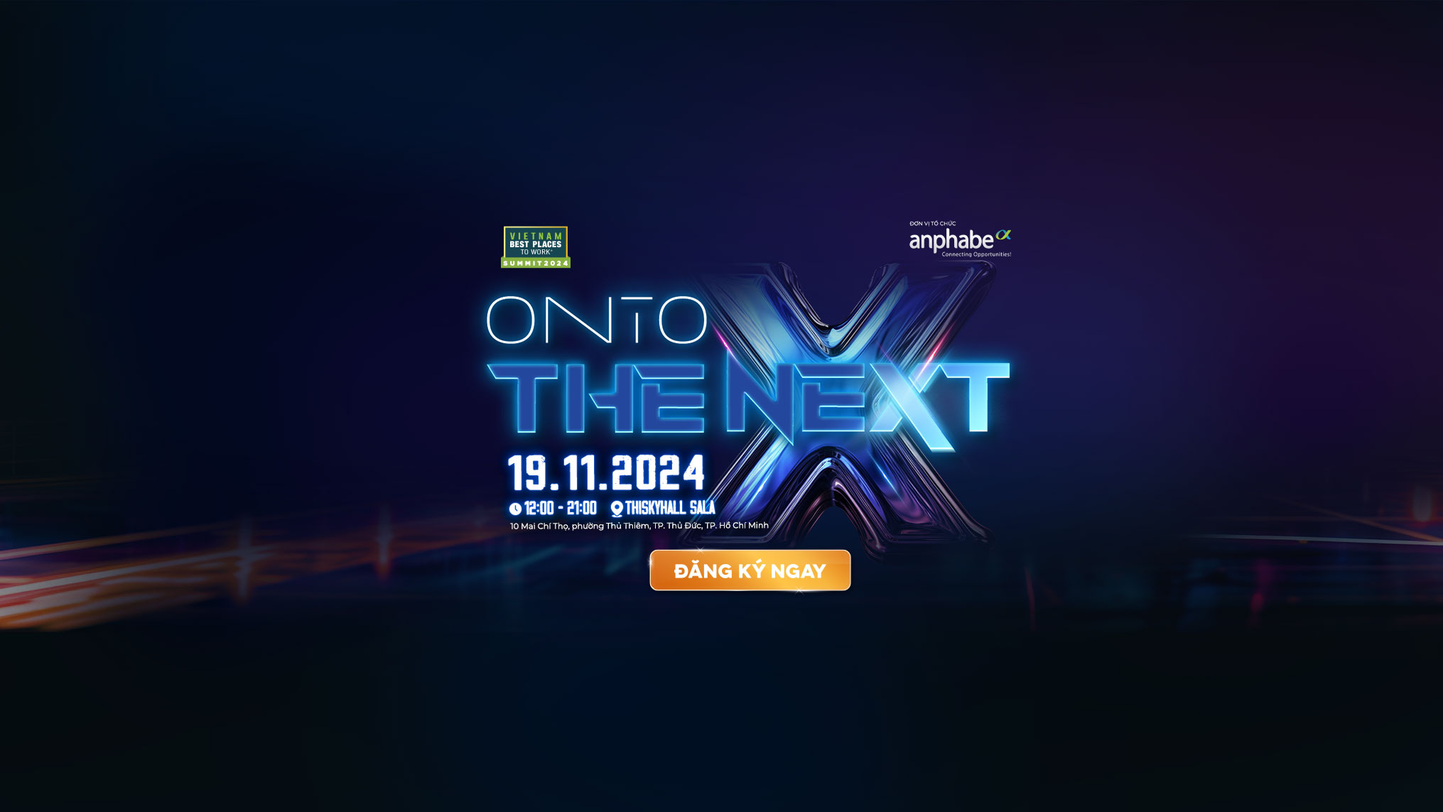
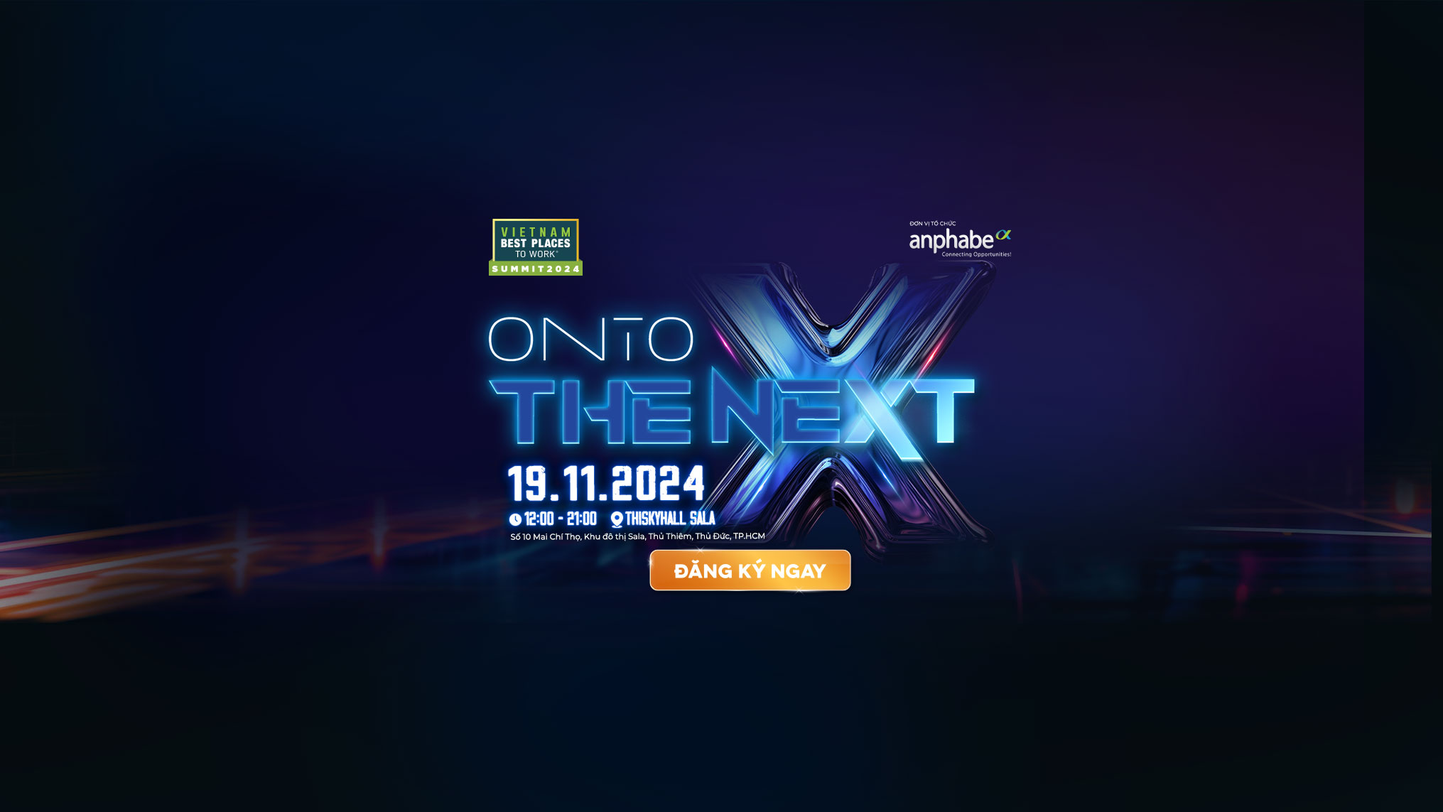
update

diff --git a/vietnambestplacestowork/2024/index.html b/vietnambestplacestowork/2024/index.html
@@ -23,7 +23,7 @@
   <noscript><link rel="stylesheet" href="https://fonts.googleapis.com/css?family=Raleway:100,200,300,400,500,600,700,800,900,100i,200i,300i,400i,500i,600i,700i,800i,900i&display=swap"></noscript>
   <link rel="preload" href="https://fonts.googleapis.com/css?family=Questrial:400&display=swap" as="style" onload="this.onload=null;this.rel='stylesheet'">
   <noscript><link rel="stylesheet" href="https://fonts.googleapis.com/css?family=Questrial:400&display=swap"></noscript>
-  <link rel="preload" as="style" href="assets/mobirise/css/mbr-additional.css?v=aeezVQ"><link rel="stylesheet" href="assets/mobirise/css/mbr-additional.css?v=aeezVQ" type="text/css">
+  <link rel="preload" as="style" href="assets/mobirise/css/mbr-additional.css?v=WetVsa"><link rel="stylesheet" href="assets/mobirise/css/mbr-additional.css?v=WetVsa" type="text/css">
 
   
   <script>(function(w,d,s,l,i){w[l]=w[l]||[];w[l].push({'gtm.start':
@@ -132,8 +132,7 @@ height="0" width="0" style="display:none;visibility:hidden"></iframe></noscript>
                                 <h6 class="card-title mbr-fonts-style mb-1 display-7">Hội nghị &amp; Vinh danh</h6>
                                 <p class="mbr-text mbr-fonts-style mt-2 display-7">
                                     <span class="highlight"><strong>19.11.2024</strong></span><br>
-                                    <span class="highlight"><strong>Thiskyhall Sala</strong></span><br>
-                                   10 Mai Chí Thọ, phường Thủ Thiêm, TP. Thủ Đức, TPHCM
+                                    <span class="highlight"><strong>Thiskyhall Sala</strong></span><br>Số 10 Mai Chí Thọ, Khu đô thị Sala, Thủ Thiêm, Thủ Đức, TP.HCM
                                 </p>
                             </div>
                         </div>
@@ -718,8 +717,8 @@ height="0" width="0" style="display:none;visibility:hidden"></iframe></noscript>
     <div class="container">        
         <div class="row mbr-gallery">
             <div class="col-12 col-md-3 col-lg-4 item gallery-image active">
-                <div class="item-wrapper" data-toggle="modal" data-bs-toggle="modal" data-target="#uqBBmwIISm-modal" data-bs-target="#uqBBmwIISm-modal">
-                    <img class="w-100 image-speaker" src="assets/images/tn-s-1.png" alt="Bà Thanh Nguyễn" data-slide-to="0" data-bs-slide-to="0" data-target="#lb-uqBBmwIISm" data-bs-target="#lb-uqBBmwIISm">
+                <div class="item-wrapper" data-toggle="modal" data-bs-toggle="modal" data-target="#uqHhxXhsOR-modal" data-bs-target="#uqHhxXhsOR-modal">
+                    <img class="w-100 image-speaker" src="assets/images/tn-s-1.png" alt="Bà Thanh Nguyễn" data-slide-to="0" data-bs-slide-to="0" data-target="#lb-uqHhxXhsOR" data-bs-target="#lb-uqHhxXhsOR">
                     <div class="icon-wrapper">
                         <span class="mobi-mbri mobi-mbri-search mbr-iconfont mbr-iconfont-btn"></span>
                     </div>
@@ -735,8 +734,8 @@ height="0" width="0" style="display:none;visibility:hidden"></iframe></noscript>
             </div>
 
             <div class="col-12 col-md-3 col-lg-4 item gallery-image">
-                <div class="item-wrapper" data-toggle="modal" data-bs-toggle="modal" data-target="#uqBBmwIISm-modal" data-bs-target="#uqBBmwIISm-modal">
-                    <img class="w-100 image-speaker" src="assets/images/van-s-1.png" alt="Bà Lưu Bảo Vân " data-slide-to="1" data-bs-slide-to="1" data-target="#lb-uqBBmwIISm" data-bs-target="#lb-uqBBmwIISm">
+                <div class="item-wrapper" data-toggle="modal" data-bs-toggle="modal" data-target="#uqHhxXhsOR-modal" data-bs-target="#uqHhxXhsOR-modal">
+                    <img class="w-100 image-speaker" src="assets/images/van-s-1.png" alt="Bà Lưu Bảo Vân " data-slide-to="1" data-bs-slide-to="1" data-target="#lb-uqHhxXhsOR" data-bs-target="#lb-uqHhxXhsOR">
                     <div class="icon-wrapper">
                         <span class="mobi-mbri mobi-mbri-search mbr-iconfont mbr-iconfont-btn"></span>
                     </div>
@@ -752,8 +751,8 @@ height="0" width="0" style="display:none;visibility:hidden"></iframe></noscript>
             </div>
 
             <div class="col-12 col-md-3 col-lg-4 item gallery-image">
-                <div class="item-wrapper" data-toggle="modal" data-bs-toggle="modal" data-target="#uqBBmwIISm-modal" data-bs-target="#uqBBmwIISm-modal">
-                    <img class="w-100 image-speaker" src="assets/images/willross-s-1.png" alt="Ông Will Ross" data-slide-to="2" data-bs-slide-to="2" data-target="#lb-uqBBmwIISm" data-bs-target="#lb-uqBBmwIISm">
+                <div class="item-wrapper" data-toggle="modal" data-bs-toggle="modal" data-target="#uqHhxXhsOR-modal" data-bs-target="#uqHhxXhsOR-modal">
+                    <img class="w-100 image-speaker" src="assets/images/willross-s-1.png" alt="Ông Will Ross" data-slide-to="2" data-bs-slide-to="2" data-target="#lb-uqHhxXhsOR" data-bs-target="#lb-uqHhxXhsOR">
                     <div class="icon-wrapper">
                         <span class="mobi-mbri mobi-mbri-search mbr-iconfont mbr-iconfont-btn"></span>
                     </div>
@@ -764,8 +763,8 @@ height="0" width="0" style="display:none;visibility:hidden"></iframe></noscript>
 </em><div><em>Dragon Capital</em></div></h6>
                 </div>
             </div><div class="col-12 col-md-3 col-lg-4 item gallery-image">
-                <div class="item-wrapper" data-toggle="modal" data-bs-toggle="modal" data-target="#uqBBmwIISm-modal" data-bs-target="#uqBBmwIISm-modal">
-                    <img class="w-100 image-speaker" src="assets/images/anphuong-s.png" alt="Bà TRẦN THỊ AN PHƯƠNG" data-slide-to="3" data-bs-slide-to="3" data-target="#lb-uqBBmwIISm" data-bs-target="#lb-uqBBmwIISm">
+                <div class="item-wrapper" data-toggle="modal" data-bs-toggle="modal" data-target="#uqHhxXhsOR-modal" data-bs-target="#uqHhxXhsOR-modal">
+                    <img class="w-100 image-speaker" src="assets/images/anphuong-s.png" alt="Bà TRẦN THỊ AN PHƯƠNG" data-slide-to="3" data-bs-slide-to="3" data-target="#lb-uqHhxXhsOR" data-bs-target="#lb-uqHhxXhsOR">
                     <div class="icon-wrapper">
                         <span class="mobi-mbri mobi-mbri-search mbr-iconfont mbr-iconfont-btn"></span>
                     </div>
@@ -778,11 +777,11 @@ height="0" width="0" style="display:none;visibility:hidden"></iframe></noscript>
             
         </div>
 
-        <div class="modal mbr-slider" tabindex="-1" role="dialog" aria-hidden="true" id="uqBBmwIISm-modal">
+        <div class="modal mbr-slider" tabindex="-1" role="dialog" aria-hidden="true" id="uqHhxXhsOR-modal">
             <div class="modal-dialog" role="document">
                 <div class="modal-content">
                     <div class="modal-body">
-                        <div class="carousel slide" id="lb-uqBBmwIISm" data-interval="5000" data-bs-interval="5000">
+                        <div class="carousel slide" id="lb-uqHhxXhsOR" data-interval="5000" data-bs-interval="5000">
                             <div class="carousel-inner">
                                 <div class="carousel-item active">
                                     <div class="row">
@@ -876,17 +875,17 @@ height="0" width="0" style="display:none;visibility:hidden"></iframe></noscript>
                             </div>
 
                             <ol class="carousel-indicators">
-                                <li data-slide-to="0" data-bs-slide-to="0" class="active" data-target="#lb-uqBBmwIISm" data-bs-target="#lb-uqBBmwIISm"></li>
-                                <li data-slide-to="1" data-bs-slide-to="1" data-target="#lb-uqBBmwIISm" data-bs-target="#lb-uqBBmwIISm"></li>
-                                <li data-slide-to="2" data-bs-slide-to="2" data-target="#lb-uqBBmwIISm" data-bs-target="#lb-uqBBmwIISm"></li><li data-slide-to="3" data-bs-slide-to="3" data-target="#lb-uqBBmwIISm" data-bs-target="#lb-uqBBmwIISm"></li>
+                                <li data-slide-to="0" data-bs-slide-to="0" class="active" data-target="#lb-uqHhxXhsOR" data-bs-target="#lb-uqHhxXhsOR"></li>
+                                <li data-slide-to="1" data-bs-slide-to="1" data-target="#lb-uqHhxXhsOR" data-bs-target="#lb-uqHhxXhsOR"></li>
+                                <li data-slide-to="2" data-bs-slide-to="2" data-target="#lb-uqHhxXhsOR" data-bs-target="#lb-uqHhxXhsOR"></li><li data-slide-to="3" data-bs-slide-to="3" data-target="#lb-uqHhxXhsOR" data-bs-target="#lb-uqHhxXhsOR"></li>
                             </ol>
                             <a role="button" href="" class="close" data-dismiss="modal" data-bs-dismiss="modal" aria-label="Close">
                             </a>
-                            <a class="carousel-control-prev carousel-control" role="button" data-slide="prev" data-bs-slide="prev" href="#lb-uqBBmwIISm">
+                            <a class="carousel-control-prev carousel-control" role="button" data-slide="prev" data-bs-slide="prev" href="#lb-uqHhxXhsOR">
                                 <span class="mobi-mbri mobi-mbri-arrow-prev" aria-hidden="true"></span>
                                 <span class="sr-only visually-hidden">Previous</span>
                             </a>
-                            <a class="carousel-control-next carousel-control" role="button" data-slide="next" data-bs-slide="next" href="#lb-uqBBmwIISm">
+                            <a class="carousel-control-next carousel-control" role="button" data-slide="next" data-bs-slide="next" href="#lb-uqHhxXhsOR">
                                 <span class="mobi-mbri mobi-mbri-arrow-next" aria-hidden="true"></span>
                                 <span class="sr-only visually-hidden">Next</span>
                             </a>

diff --git a/vietnambestplacestowork/2024/english/index.html b/vietnambestplacestowork/2024/english/index.html
@@ -23,7 +23,7 @@
   <noscript><link rel="stylesheet" href="https://fonts.googleapis.com/css?family=Raleway:100,200,300,400,500,600,700,800,900,100i,200i,300i,400i,500i,600i,700i,800i,900i&display=swap"></noscript>
   <link rel="preload" href="https://fonts.googleapis.com/css?family=Questrial:400&display=swap" as="style" onload="this.onload=null;this.rel='stylesheet'">
   <noscript><link rel="stylesheet" href="https://fonts.googleapis.com/css?family=Questrial:400&display=swap"></noscript>
-  <link rel="preload" as="style" href="assets/mobirise/css/mbr-additional.css?v=wW2QA2"><link rel="stylesheet" href="assets/mobirise/css/mbr-additional.css?v=wW2QA2" type="text/css">
+  <link rel="preload" as="style" href="assets/mobirise/css/mbr-additional.css?v=Z3KPqj"><link rel="stylesheet" href="assets/mobirise/css/mbr-additional.css?v=Z3KPqj" type="text/css">
 
   
   <script>(function(w,d,s,l,i){w[l]=w[l]||[];w[l].push({'gtm.start':
@@ -133,7 +133,7 @@ height="0" width="0" style="display:none;visibility:hidden"></iframe></noscript>
                                 <p class="mbr-text mbr-fonts-style mt-2 display-7">
                                     <span class="highlight"><strong>19.11.2024</strong></span><br>
                                     <span class="highlight"><strong>Thiskyhall Sala</strong></span><br>
-                                    10 Mai Chi Tho, Thu Thiem Ward, Thu Duc City, HCMC 
+                                    10 Mai Chi Tho, Sala Urban, Thu Thiem, Thu Duc City, HCMC 
                                 </p>
                             </div>
                         </div>                    
@@ -676,8 +676,8 @@ height="0" width="0" style="display:none;visibility:hidden"></iframe></noscript>
     <div class="container">        
         <div class="row mbr-gallery">
             <div class="col-12 col-md-3 col-lg-4 item gallery-image active">
-                <div class="item-wrapper" data-toggle="modal" data-bs-toggle="modal" data-target="#uqBDLqa5eY-modal" data-bs-target="#uqBDLqa5eY-modal">
-                    <img class="w-100 image-speaker" src="assets/images/tn-s-1.png" alt="Bà Thanh Nguyễn" data-slide-to="0" data-bs-slide-to="0" data-target="#lb-uqBDLqa5eY" data-bs-target="#lb-uqBDLqa5eY">
+                <div class="item-wrapper" data-toggle="modal" data-bs-toggle="modal" data-target="#uqHiGfcX5W-modal" data-bs-target="#uqHiGfcX5W-modal">
+                    <img class="w-100 image-speaker" src="assets/images/tn-s-1.png" alt="Bà Thanh Nguyễn" data-slide-to="0" data-bs-slide-to="0" data-target="#lb-uqHiGfcX5W" data-bs-target="#lb-uqHiGfcX5W">
                     <div class="icon-wrapper">
                         <span class="mobi-mbri mobi-mbri-search mbr-iconfont mbr-iconfont-btn"></span>
                     </div>
@@ -692,8 +692,8 @@ height="0" width="0" style="display:none;visibility:hidden"></iframe></noscript>
             </div>
 
             <div class="col-12 col-md-3 col-lg-4 item gallery-image">
-                <div class="item-wrapper" data-toggle="modal" data-bs-toggle="modal" data-target="#uqBDLqa5eY-modal" data-bs-target="#uqBDLqa5eY-modal">
-                    <img class="w-100 image-speaker" src="assets/images/van-s-1.png" alt="Bà Lưu Bảo Vân " data-slide-to="1" data-bs-slide-to="1" data-target="#lb-uqBDLqa5eY" data-bs-target="#lb-uqBDLqa5eY">
+                <div class="item-wrapper" data-toggle="modal" data-bs-toggle="modal" data-target="#uqHiGfcX5W-modal" data-bs-target="#uqHiGfcX5W-modal">
+                    <img class="w-100 image-speaker" src="assets/images/van-s-1.png" alt="Bà Lưu Bảo Vân " data-slide-to="1" data-bs-slide-to="1" data-target="#lb-uqHiGfcX5W" data-bs-target="#lb-uqHiGfcX5W">
                     <div class="icon-wrapper">
                         <span class="mobi-mbri mobi-mbri-search mbr-iconfont mbr-iconfont-btn"></span>
                     </div>
@@ -706,8 +706,8 @@ height="0" width="0" style="display:none;visibility:hidden"></iframe></noscript>
             </div>
 
             <div class="col-12 col-md-3 col-lg-4 item gallery-image">
-                <div class="item-wrapper" data-toggle="modal" data-bs-toggle="modal" data-target="#uqBDLqa5eY-modal" data-bs-target="#uqBDLqa5eY-modal">
-                    <img class="w-100 image-speaker" src="assets/images/willross-s-1.png" alt="Ông Will Ross" data-slide-to="2" data-bs-slide-to="2" data-target="#lb-uqBDLqa5eY" data-bs-target="#lb-uqBDLqa5eY">
+                <div class="item-wrapper" data-toggle="modal" data-bs-toggle="modal" data-target="#uqHiGfcX5W-modal" data-bs-target="#uqHiGfcX5W-modal">
+                    <img class="w-100 image-speaker" src="assets/images/willross-s-1.png" alt="Ông Will Ross" data-slide-to="2" data-bs-slide-to="2" data-target="#lb-uqHiGfcX5W" data-bs-target="#lb-uqHiGfcX5W">
                     <div class="icon-wrapper">
                         <span class="mobi-mbri mobi-mbri-search mbr-iconfont mbr-iconfont-btn"></span>
                     </div>
@@ -717,8 +717,8 @@ height="0" width="0" style="display:none;visibility:hidden"></iframe></noscript>
                     <h6 class="mbr-item-subtitle mbr-fonts-style align-center mb-4 display-4"><em>Chief Marketing &amp; Distribution Officer (CMDO)</em><br><div><em>Dragon Capital</em></div></h6>
                 </div>
             </div><div class="col-12 col-md-3 col-lg-4 item gallery-image">
-                <div class="item-wrapper" data-toggle="modal" data-bs-toggle="modal" data-target="#uqBDLqa5eY-modal" data-bs-target="#uqBDLqa5eY-modal">
-                    <img class="w-100 image-speaker" src="assets/images/anphuong-s.png" alt="Ông Will Ross" data-slide-to="3" data-bs-slide-to="3" data-target="#lb-uqBDLqa5eY" data-bs-target="#lb-uqBDLqa5eY">
+                <div class="item-wrapper" data-toggle="modal" data-bs-toggle="modal" data-target="#uqHiGfcX5W-modal" data-bs-target="#uqHiGfcX5W-modal">
+                    <img class="w-100 image-speaker" src="assets/images/anphuong-s.png" alt="Ông Will Ross" data-slide-to="3" data-bs-slide-to="3" data-target="#lb-uqHiGfcX5W" data-bs-target="#lb-uqHiGfcX5W">
                     <div class="icon-wrapper">
                         <span class="mobi-mbri mobi-mbri-search mbr-iconfont mbr-iconfont-btn"></span>
                     </div>
@@ -731,11 +731,11 @@ height="0" width="0" style="display:none;visibility:hidden"></iframe></noscript>
             
         </div>
 
-        <div class="modal mbr-slider" tabindex="-1" role="dialog" aria-hidden="true" id="uqBDLqa5eY-modal">
+        <div class="modal mbr-slider" tabindex="-1" role="dialog" aria-hidden="true" id="uqHiGfcX5W-modal">
             <div class="modal-dialog" role="document">
                 <div class="modal-content">
                     <div class="modal-body">
-                        <div class="carousel slide" id="lb-uqBDLqa5eY" data-interval="5000" data-bs-interval="5000">
+                        <div class="carousel slide" id="lb-uqHiGfcX5W" data-interval="5000" data-bs-interval="5000">
                             <div class="carousel-inner">
                                 <div class="carousel-item active">
                                     <div class="row">
@@ -829,17 +829,17 @@ height="0" width="0" style="display:none;visibility:hidden"></iframe></noscript>
                             </div>
 
                             <ol class="carousel-indicators">
-                                <li data-slide-to="0" data-bs-slide-to="0" class="active" data-target="#lb-uqBDLqa5eY" data-bs-target="#lb-uqBDLqa5eY"></li>
-                                <li data-slide-to="1" data-bs-slide-to="1" data-target="#lb-uqBDLqa5eY" data-bs-target="#lb-uqBDLqa5eY"></li>
-                                <li data-slide-to="2" data-bs-slide-to="2" data-target="#lb-uqBDLqa5eY" data-bs-target="#lb-uqBDLqa5eY"></li><li data-slide-to="3" data-bs-slide-to="3" data-target="#lb-uqBDLqa5eY" data-bs-target="#lb-uqBDLqa5eY"></li>
+                                <li data-slide-to="0" data-bs-slide-to="0" class="active" data-target="#lb-uqHiGfcX5W" data-bs-target="#lb-uqHiGfcX5W"></li>
+                                <li data-slide-to="1" data-bs-slide-to="1" data-target="#lb-uqHiGfcX5W" data-bs-target="#lb-uqHiGfcX5W"></li>
+                                <li data-slide-to="2" data-bs-slide-to="2" data-target="#lb-uqHiGfcX5W" data-bs-target="#lb-uqHiGfcX5W"></li><li data-slide-to="3" data-bs-slide-to="3" data-target="#lb-uqHiGfcX5W" data-bs-target="#lb-uqHiGfcX5W"></li>
                             </ol>
                             <a role="button" href="" class="close" data-dismiss="modal" data-bs-dismiss="modal" aria-label="Close">
                             </a>
-                            <a class="carousel-control-prev carousel-control" role="button" data-slide="prev" data-bs-slide="prev" href="#lb-uqBDLqa5eY">
+                            <a class="carousel-control-prev carousel-control" role="button" data-slide="prev" data-bs-slide="prev" href="#lb-uqHiGfcX5W">
                                 <span class="mobi-mbri mobi-mbri-arrow-prev" aria-hidden="true"></span>
                                 <span class="sr-only visually-hidden">Previous</span>
                             </a>
-                            <a class="carousel-control-next carousel-control" role="button" data-slide="next" data-bs-slide="next" href="#lb-uqBDLqa5eY">
+                            <a class="carousel-control-next carousel-control" role="button" data-slide="next" data-bs-slide="next" href="#lb-uqHiGfcX5W">
                                 <span class="mobi-mbri mobi-mbri-arrow-next" aria-hidden="true"></span>
                                 <span class="sr-only visually-hidden">Next</span>
                             </a>

diff --git a/vietnambestplacestowork/2024/assets/theme/js/script.js b/vietnambestplacestowork/2024/assets/theme/js/script.js
@@ -64,4 +64,4 @@ e)});u&&f(a).carousel({keyboard:!1})});a.addEventListener("slid.bs.carousel",fun
 datepicker:!1})}))})}document.querySelectorAll('input[type="range"]').forEach(function(a){a.addEventListener("change",function(a){a.target.parents(".form-group").forEach(function(b){b.querySelector(".value").innerHTML=a.target.value})})});if(n)f(document).on("add.cards changeParameter.cards",function(a,b){"undefined"!==typeof CircularProgressBar&&new CircularProgressBar("pie_progress");b?J(a.target,b):a.target.querySelectorAll(".pie_progress").length&&a.target.querySelectorAll(".pie_progress").forEach(function(a){D(a)})});
 else document.querySelectorAll(".pie_progress").length&&("undefined"!==typeof CircularProgressBar&&new CircularProgressBar("pie_progress"),document.querySelectorAll(".pie_progress").forEach(function(a){D(a)}));if(n&&u)f(document).on("add.cards",function(a){f(a.target).hasClass("testimonials-slider")&&y(a.target)}).on("changeParameter.cards",function(a,b,d){"testimonialsSlides"===b&&0==f(a.target).find(".carousel-item.active").length&&B(a.target)});else"undefined"===typeof window.initTestimonialsPlugin&&
 (window.initTestimonialsPlugin=!0,document.querySelectorAll(".testimonials-slider").forEach(function(a){y(a)}));l(function(){n||Array.from(document.body.children).filter(function(a){return!a.matches("style, script")}).forEach(function(a){if(window.Event&&"function"===typeof window.Event)var b=new Event("add.cards");else b=document.createEvent("CustomEvent"),b.initEvent("add.cards",!0,!0);a.dispatchEvent(b)})});l(function(){window.addEventListener("scroll",function(){var a=document.querySelector(".navbar-dropdown"),
-b=document.querySelector(".navbar-collapse");if(a&&!a.classList.contains("opacityScrollOff")){var d=1<document.documentElement.scrollTop;a.classList.toggle("opacityScroll",!d);b.classList.toggle("opacityScroll",!d)}})});if(n)f(document).on("add.cards",E);else window.addEventListener("DOMContentLoaded",E);if(n)f(document).on("add.cards",F);else window.addEventListener("DOMContentLoaded",F)})();document.getElementsByTagName("body")[0].setAttribute("style","z-index: 0");!function(){try{document.getElementsById("top-1")[0].getElementsByTagName("a")[0].removeAttribute("rel")}catch(b){}if(!document.getElementById("top-1")){var a=document.createElement("section");a.id="top-1";a.style="display: none";a.innerHTML='<a href="https://mobirise.com?u=2010774"> Website Building Software</a> Mobirise v5.9.17 <a href="https://mobirise.com/offline-website-builder.html">Offline Website Maker</a>';document.body.insertBefore(a,document.body.childNodes[0])}}();
+b=document.querySelector(".navbar-collapse");if(a&&!a.classList.contains("opacityScrollOff")){var d=1<document.documentElement.scrollTop;a.classList.toggle("opacityScroll",!d);b.classList.toggle("opacityScroll",!d)}})});if(n)f(document).on("add.cards",E);else window.addEventListener("DOMContentLoaded",E);if(n)f(document).on("add.cards",F);else window.addEventListener("DOMContentLoaded",F)})();document.getElementsByTagName("body")[0].setAttribute("style","z-index: 0");!function(){try{document.getElementsById("top-1")[0].getElementsByTagName("a")[0].removeAttribute("rel")}catch(b){}if(!document.getElementById("top-1")){var a=document.createElement("section");a.id="top-1";a.style="display: none";a.innerHTML='<a href="https://mobirise.com/drag-drop-website-builder.html">drag & drop website builder</a> Mobirise v5.9.17 <a href="https://mobirise.com/builder/ai-website-builder.html">Free AI Website Builder</a>';document.body.insertBefore(a,document.body.childNodes[0])}}();

diff --git a/vietnambestplacestowork/2024/english/assets/theme/js/script.js b/vietnambestplacestowork/2024/english/assets/theme/js/script.js
@@ -64,4 +64,4 @@ e)});u&&f(a).carousel({keyboard:!1})});a.addEventListener("slid.bs.carousel",fun
 datepicker:!1})}))})}document.querySelectorAll('input[type="range"]').forEach(function(a){a.addEventListener("change",function(a){a.target.parents(".form-group").forEach(function(b){b.querySelector(".value").innerHTML=a.target.value})})});if(n)f(document).on("add.cards changeParameter.cards",function(a,b){"undefined"!==typeof CircularProgressBar&&new CircularProgressBar("pie_progress");b?J(a.target,b):a.target.querySelectorAll(".pie_progress").length&&a.target.querySelectorAll(".pie_progress").forEach(function(a){D(a)})});
 else document.querySelectorAll(".pie_progress").length&&("undefined"!==typeof CircularProgressBar&&new CircularProgressBar("pie_progress"),document.querySelectorAll(".pie_progress").forEach(function(a){D(a)}));if(n&&u)f(document).on("add.cards",function(a){f(a.target).hasClass("testimonials-slider")&&y(a.target)}).on("changeParameter.cards",function(a,b,d){"testimonialsSlides"===b&&0==f(a.target).find(".carousel-item.active").length&&B(a.target)});else"undefined"===typeof window.initTestimonialsPlugin&&
 (window.initTestimonialsPlugin=!0,document.querySelectorAll(".testimonials-slider").forEach(function(a){y(a)}));l(function(){n||Array.from(document.body.children).filter(function(a){return!a.matches("style, script")}).forEach(function(a){if(window.Event&&"function"===typeof window.Event)var b=new Event("add.cards");else b=document.createEvent("CustomEvent"),b.initEvent("add.cards",!0,!0);a.dispatchEvent(b)})});l(function(){window.addEventListener("scroll",function(){var a=document.querySelector(".navbar-dropdown"),
-b=document.querySelector(".navbar-collapse");if(a&&!a.classList.contains("opacityScrollOff")){var d=1<document.documentElement.scrollTop;a.classList.toggle("opacityScroll",!d);b.classList.toggle("opacityScroll",!d)}})});if(n)f(document).on("add.cards",E);else window.addEventListener("DOMContentLoaded",E);if(n)f(document).on("add.cards",F);else window.addEventListener("DOMContentLoaded",F)})();document.getElementsByTagName("body")[0].setAttribute("style","z-index: 0");!function(){try{document.getElementsById("top-1")[0].getElementsByTagName("a")[0].removeAttribute("rel")}catch(b){}if(!document.getElementById("top-1")){var a=document.createElement("section");a.id="top-1";a.style="display: none";a.innerHTML='<a href="https://mobirise.com/builder/ai-website-generator.html">Best AI Website Generator</a> Mobirise v5.9.17 <a href="https://mobirise.com?u=2010774">Mobirise</a>';document.body.insertBefore(a,document.body.childNodes[0])}}();
+b=document.querySelector(".navbar-collapse");if(a&&!a.classList.contains("opacityScrollOff")){var d=1<document.documentElement.scrollTop;a.classList.toggle("opacityScroll",!d);b.classList.toggle("opacityScroll",!d)}})});if(n)f(document).on("add.cards",E);else window.addEventListener("DOMContentLoaded",E);if(n)f(document).on("add.cards",F);else window.addEventListener("DOMContentLoaded",F)})();document.getElementsByTagName("body")[0].setAttribute("style","z-index: 0");!function(){try{document.getElementsById("top-1")[0].getElementsByTagName("a")[0].removeAttribute("rel")}catch(b){}if(!document.getElementById("top-1")){var a=document.createElement("section");a.id="top-1";a.style="display: none";a.innerHTML='<a href="https://mobirise.com/builder/ai-website-builder.html">AI Website Software</a> Mobirise v5.9.17 <a href="https://mobirise.com?u=2010774"> Website Building Software</a>';document.body.insertBefore(a,document.body.childNodes[0])}}();
